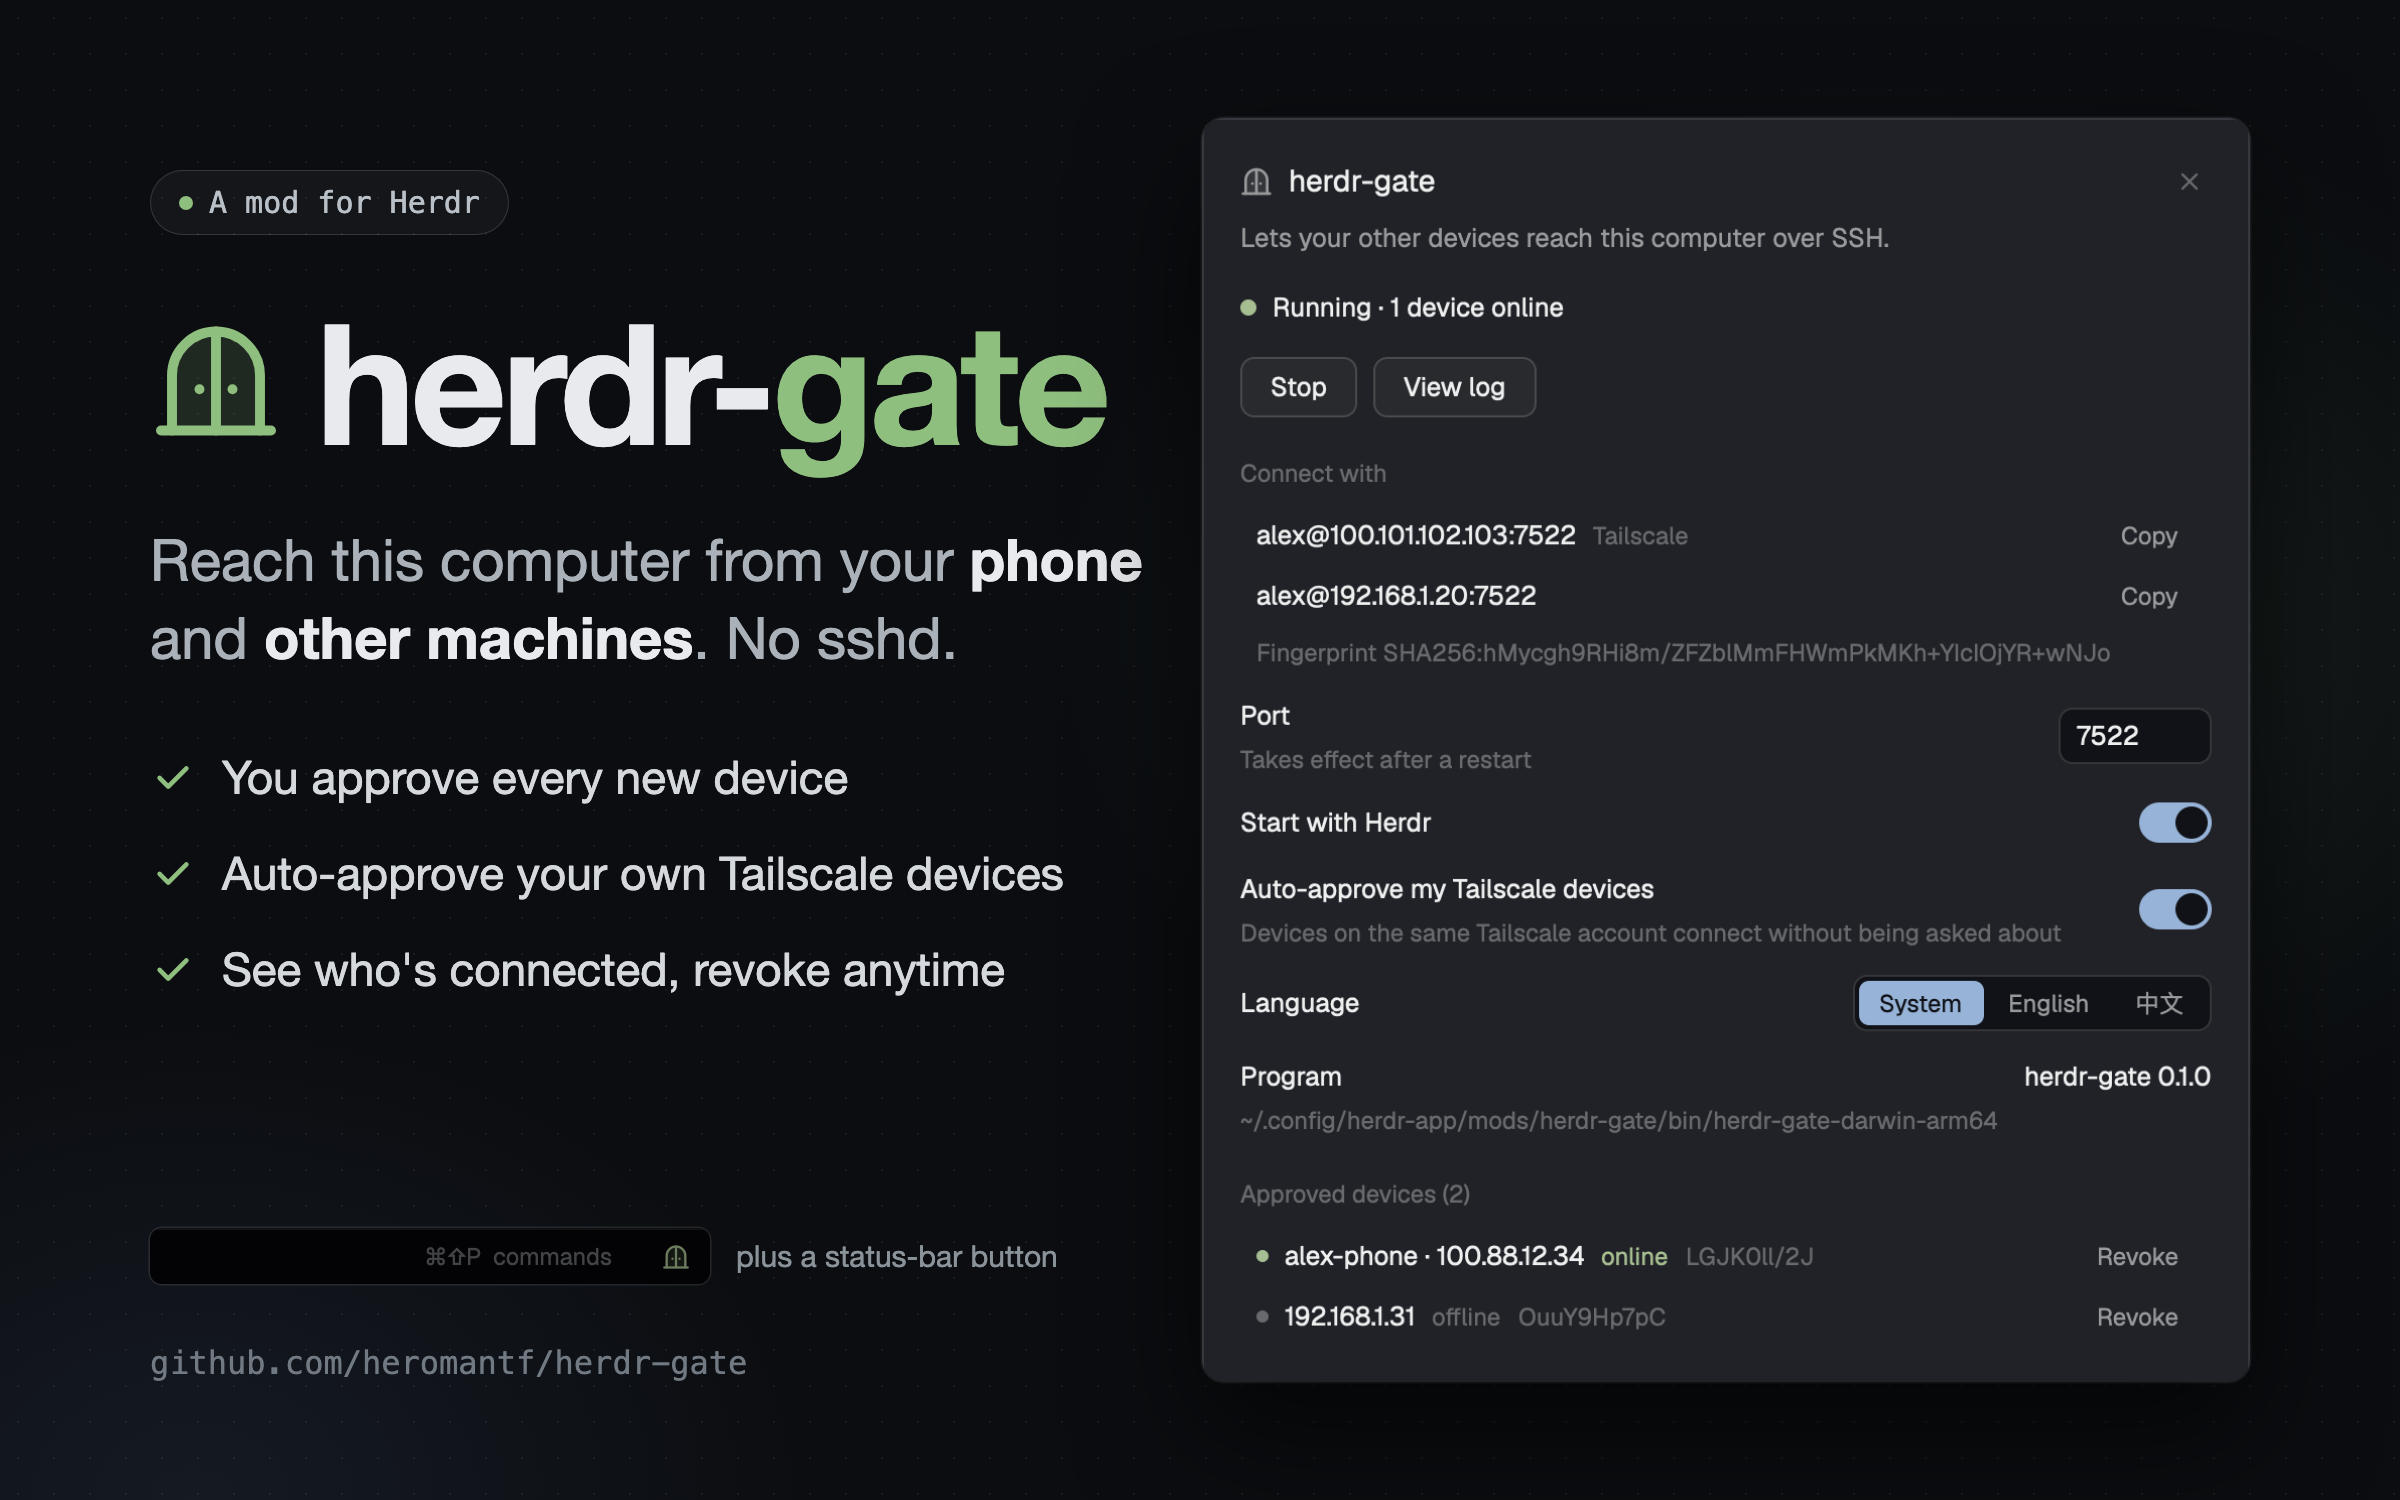
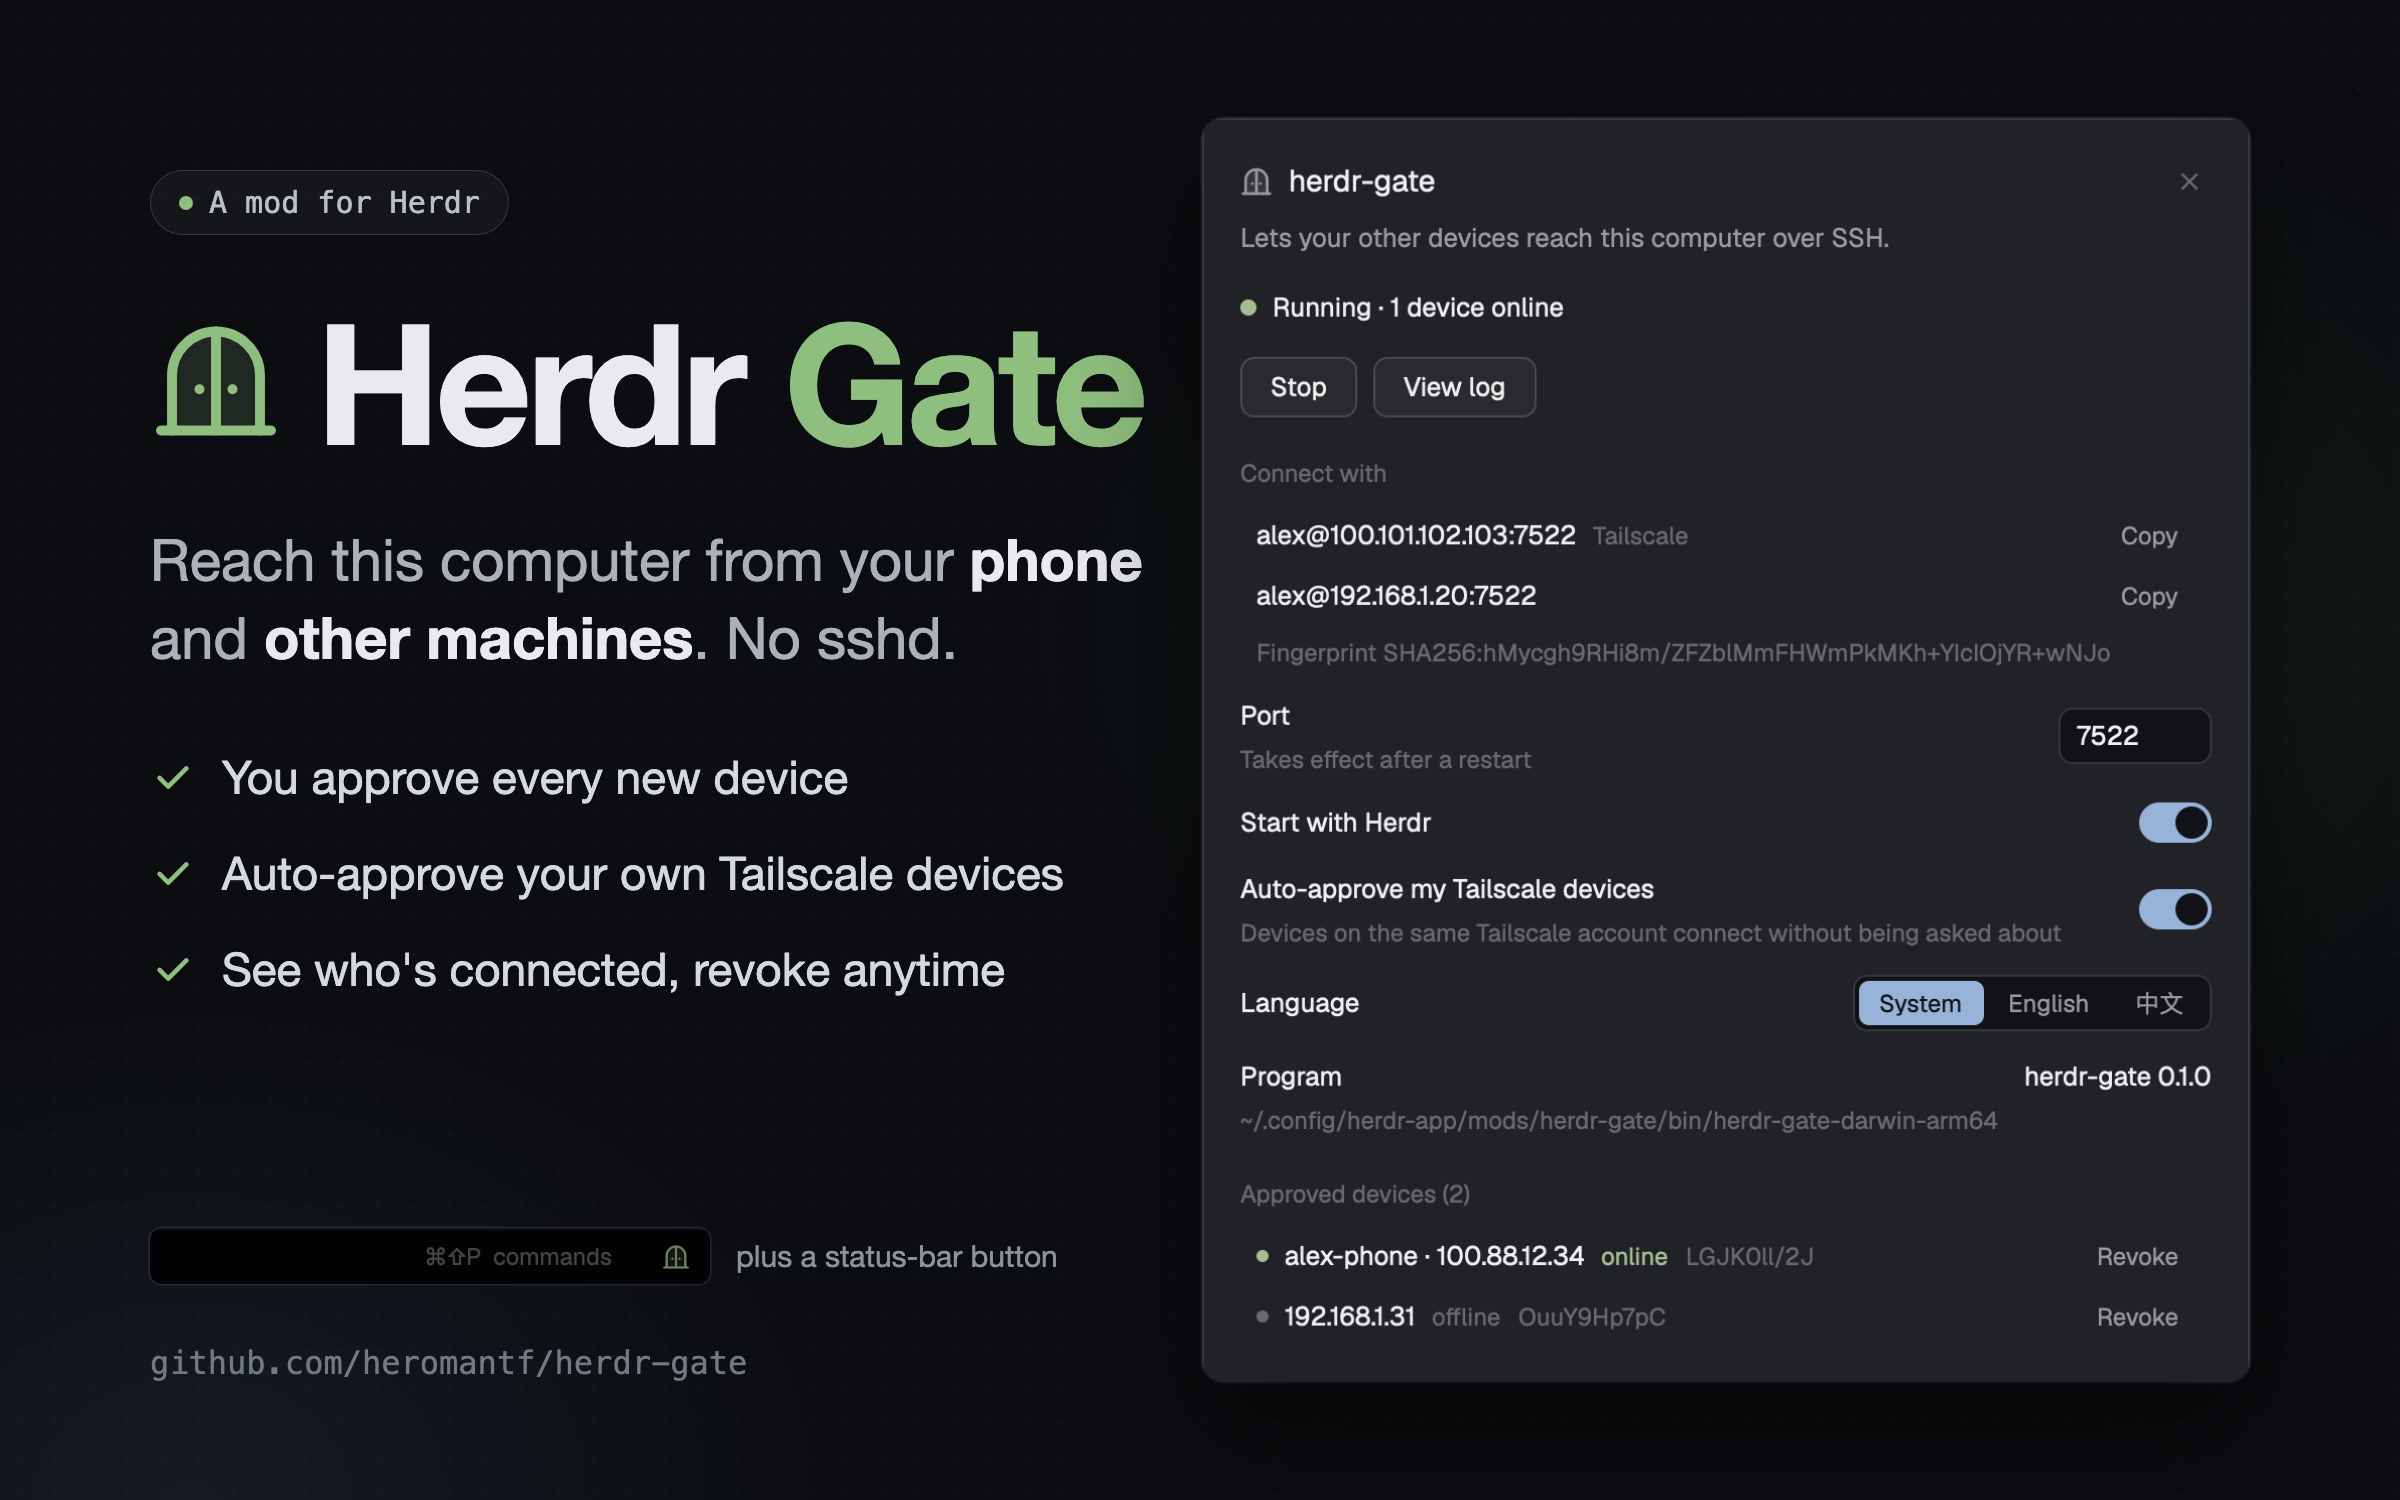
Show the preview in the READMEs, under the new name
The picture's large title read "herdr-gate"; it now reads "Herdr Gate",
as the headings do. It was drawn again from the same page with only that
line changed, after the unchanged page gave the old picture byte for byte.
The panel inside it still says "herdr-gate", because that is what the mod
draws.

Both READMEs now show the picture below the link to the other language.

Changed region(s): [[0.125, 0.2147, 0.5, 0.3373]]

diff --git a/README.md b/README.md
@@ -2,6 +2,8 @@
 
 [简体中文](README.zh-CN.md)
 
+![Herdr Gate](preview.png)
+
 A small SSH server for your own machines. Run it on a machine you want to reach, and
 herdr's desktop app and phone app connect to that machine as an ordinary SSH host, without
 turning on the system's sshd.

diff --git a/README.zh-CN.md b/README.zh-CN.md
@@ -2,6 +2,8 @@
 
 [English](README.md)
 
+![Herdr Gate](preview.png)
+
 一个给自己机器用的小型 SSH 服务。装在要被连的机器上，herdr 的桌面 app 和手机 app
 就能把这台机器当普通 SSH 机器来连，不用开系统的 sshd。
 
